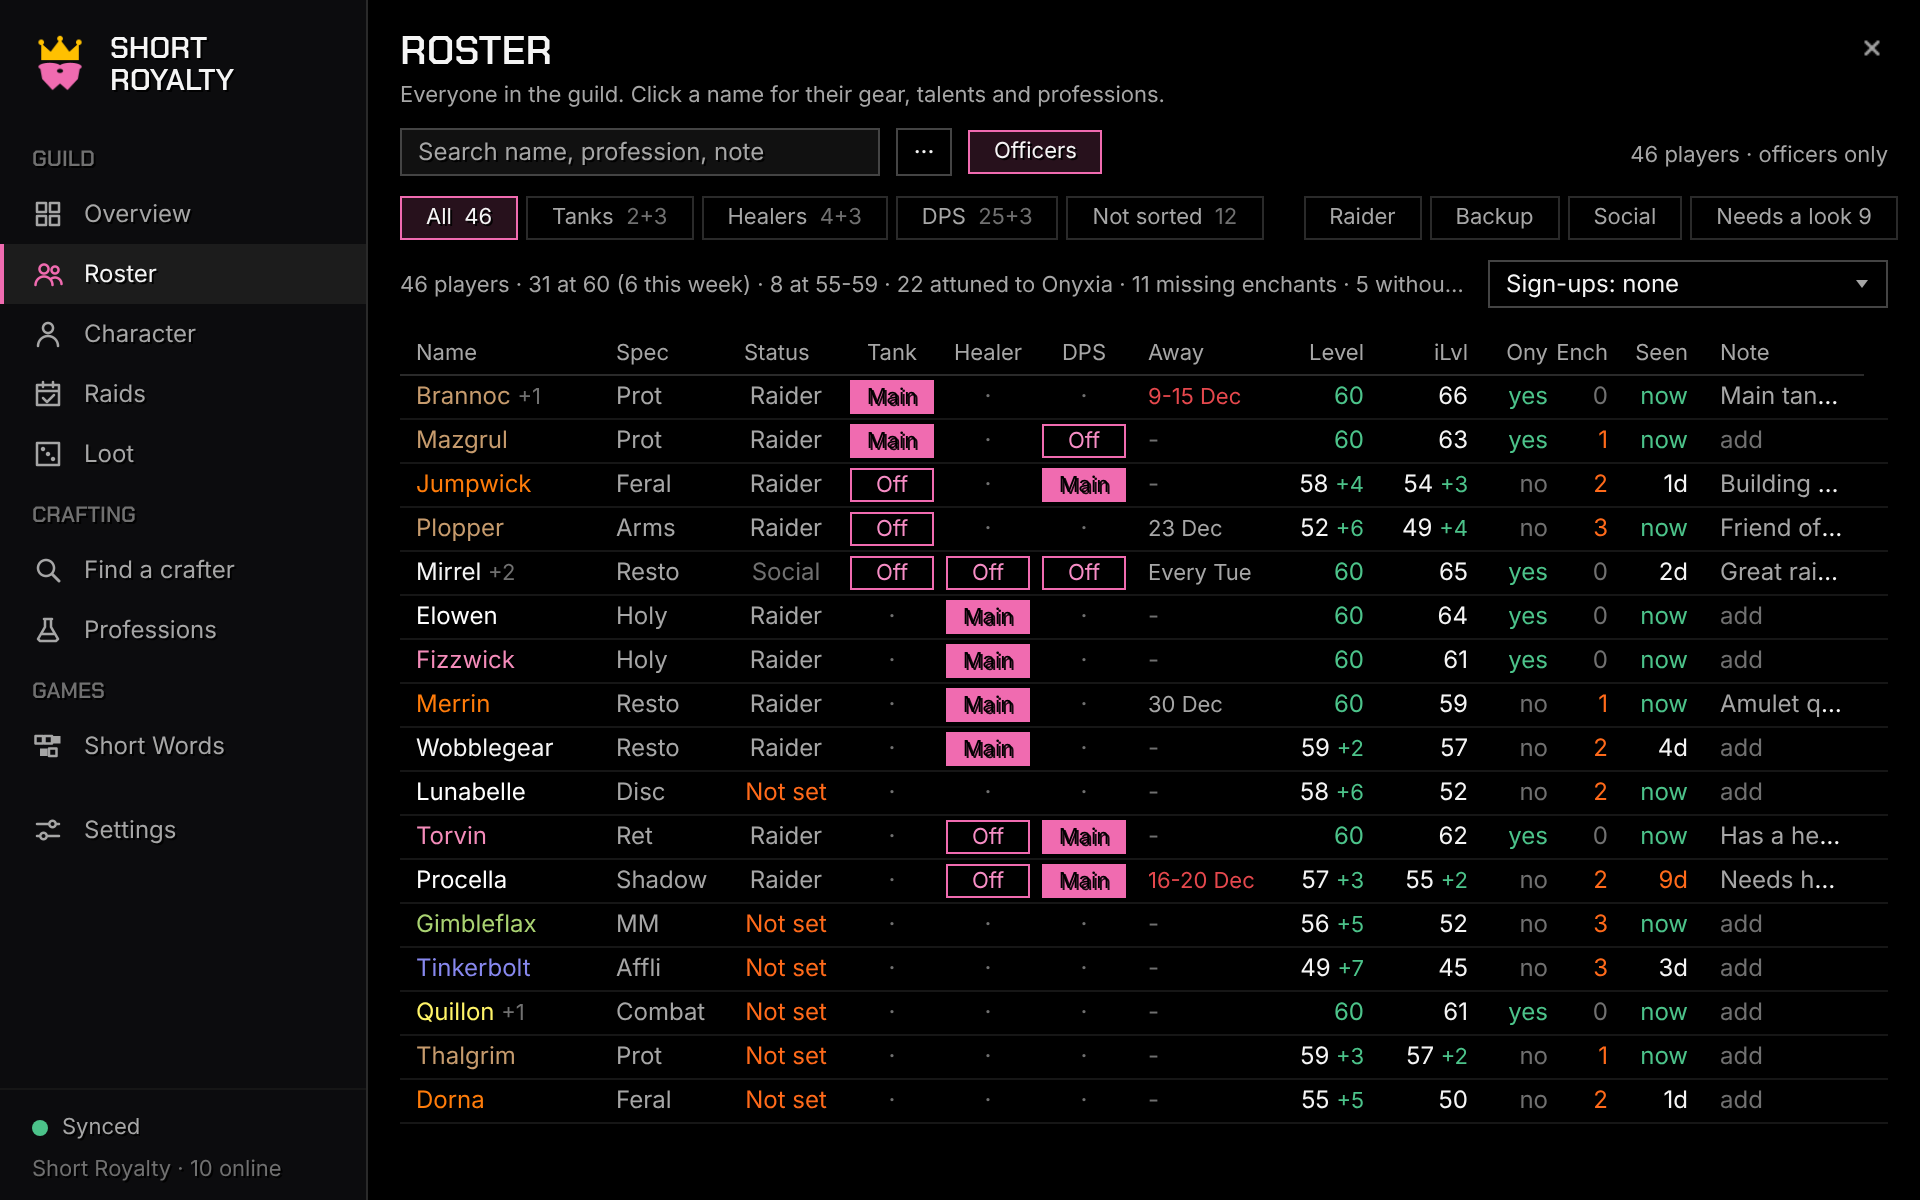
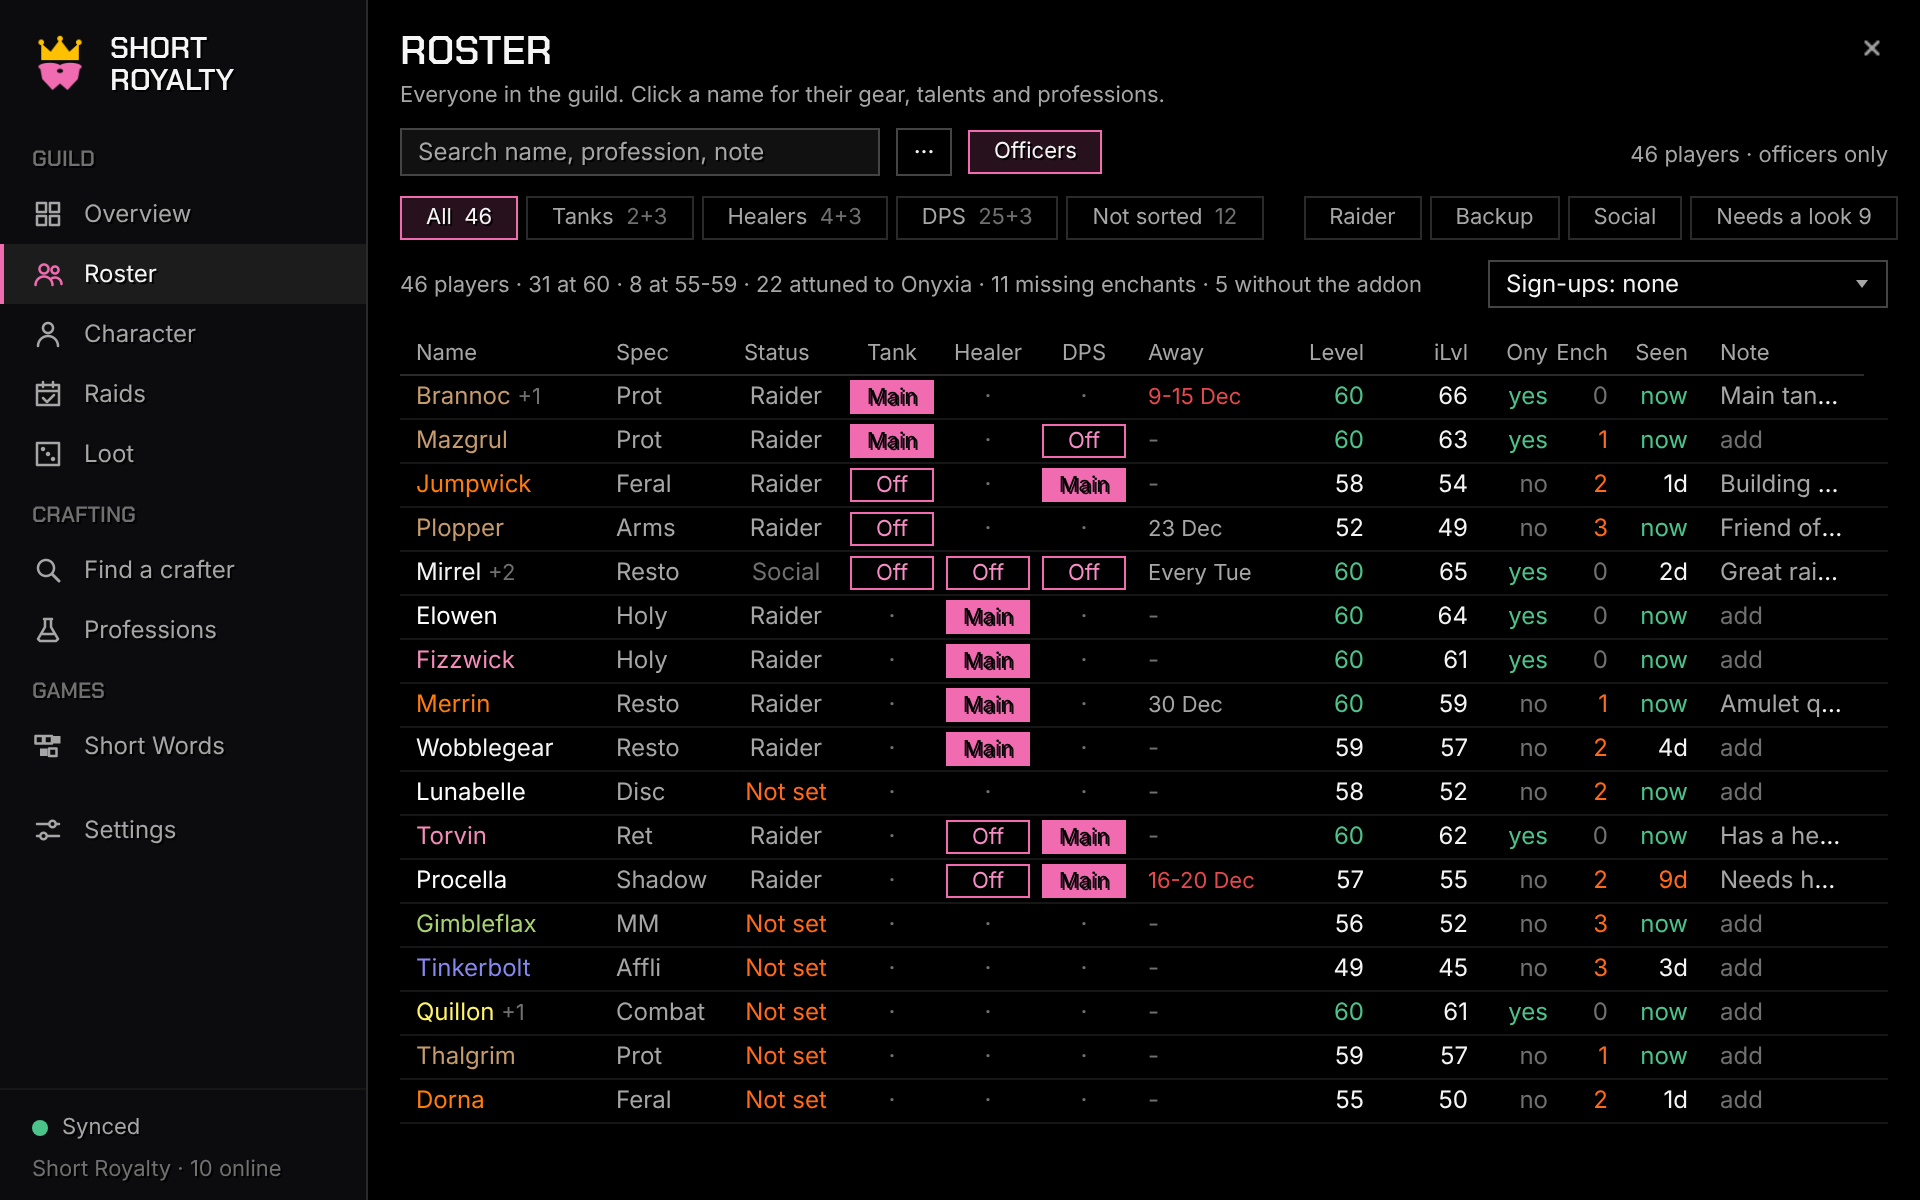
v0.14.2 (not released): remove the roster planner's level / item level gains
Claude-Session: https://claude.ai/code/session_01A7mubGdPYGXe41A4ZcDyrF

diff --git a/preview/index.html b/preview/index.html
@@ -558,7 +558,6 @@ function rosterPlanner() {
   const awayCell = (name) => AW[name] ? `<span class="small ${AW[name][1] ? "bad" : "dim"}">${AW[name][0]}</span>` : `<span class="faint">-</span>`;
   const NW = 744 - Object.values(W).reduce((a, b) => a + b, 0) - 12;
   const cell = (w, html, r, pad) => `<span class="cell ${r ? "r" : ""}" style="width:${w}px;${pad === 0 ? "padding:0;text-align:center" : pad === 1 ? "overflow:visible" : ""}">${html}</span>`;
-  const ILG = { Jumpwick: 3, Plopper: 4, Procella: 2, Thalgrim: 2 };
   const row = (r) => {
     const extra = r[13] ? ` <span class="faint small">+${r[13]}</span>` : "";
     const cells = [cell(W.n, cls(r[0]) + extra),
@@ -566,8 +565,8 @@ function rosterPlanner() {
       cell(W.st, r[2] ? `<span class="${r[2] === "Raider" ? "dim" : r[2] === "Social" ? "faint" : "acc"}">${r[2]}</span>` : `<span class="spark">Not set</span>`, 0, 0),
       cell(W.T, roleCell(r, "T"), 0, 0), cell(W.H, roleCell(r, "H"), 0, 0), cell(W.D, roleCell(r, "D"), 0, 0),
       cell(W.wk, awayCell(r[0].name)),
-      cell(W.l, r[4] === 60 ? `<span class="good">60</span>` : `${r[4]}${r[5] ? ` <span class="good small">+${r[5]}</span>` : ""}`, 1),
-      cell(W.i, `${r[6]}${ILG[r[0].name] ? ` <span class="good small">+${ILG[r[0].name]}</span>` : ""}`, 1),
+      cell(W.l, r[4] === 60 ? `<span class="good">60</span>` : `${r[4]}`, 1),
+      cell(W.i, `${r[6]}`, 1),
       cell(W.a, r[7] ? `<span class="good">yes</span>` : `<span class="faint">no</span>`, 1),
       cell(W.e, r[8] ? `<span class="spark">${r[8]}</span>` : `<span class="faint">0</span>`, 1),
       cell(W.seen, r[9] >= 7 ? `<span class="spark">${r[9]}d</span>` : r[9] ? `${r[9]}d` : `<span class="good">now</span>`, 1),
@@ -592,7 +591,7 @@ function rosterPlanner() {
   const chips = [["A", "All", 46], ["T", "Tanks", "2+3"], ["H", "Healers", "4+3"], ["D", "DPS", "25+3"], ["N", "Not sorted", 12]]
     .map(([k, t, n]) => `<span class="chip ${filter === k ? "on" : ""}" style="white-space:nowrap">${t}&nbsp;&nbsp;<span class="${filter === k ? "" : "faint"}">${n}</span></span>`).join("");
   const summary = filter === "A"
-    ? "46 players  ·  31 at 60 (6 this week)  ·  8 at 55-59  ·  22 attuned to Onyxia  ·  11 missing enchants  ·  5 without the addon"
+    ? "46 players  ·  31 at 60  ·  8 at 55-59  ·  22 attuned to Onyxia  ·  11 missing enchants  ·  5 without the addon"
     : "Click a status, role, away or note cell to change it. Click a name for their character.";
   const top = `<div class="search abs" style="left:0;top:0;width:240px"><input placeholder="Search name, profession, note" value=""></div>
     <div class="menu abs" style="left:248px;top:0;width:28px">${btn("···", "", 'style="padding:0;width:28px;justify-content:center"')}</div>

diff --git a/README.md b/README.md
@@ -98,8 +98,8 @@ Onyxia's Lair, Forever's first wave) to see who's attuned:
 
 <p align="center"><img src="docs/images/roster-planner-all.png" alt="Roster planner: one row per player with status, Tank/Healer/DPS, level, item level, attunement, enchants, data age and notes" width="100%"></p>
 
-- **Chips with counts**: All, **Tanks 2+3** (mains + backups), Healers, DPS, **Not sorted** (no status or roles yet: the people to get to know), plus Raider, Backup, **Social** (v0.14.0: neither, but sorted) and **Needs a look** (not 60, not attuned, missing enchants, no addon, or data a week old). "All" shows the whole guild in one line: players at 60 (and how many reached it this week), at 55-59, attuned to Onyxia, missing enchants, without the addon.
-- **Columns**: name (+2 = alts), spec, **Status** (Raider, Backup or Social; not the guild rank), **Tank / Healer / DPS** (Main filled, Off outlined), **Away** in words ("9-15 Dec", "Every Tue"; red when it clashes with a raid on the calendar; click it for a **mini calendar** like Raids → Calendar, with raid days marked and the player's own away days outlined, and click days to mark them away), level and item level with what they gained in the last 7 days, Onyxia attunement, missing enchants, **Seen** (how old their data is; orange after a week), and **Note**. Click a column title to sort.
+- **Chips with counts**: All, **Tanks 2+3** (mains + backups), Healers, DPS, **Not sorted** (no status or roles yet: the people to get to know), plus Raider, Backup, **Social** (v0.14.0: neither, but sorted) and **Needs a look** (not 60, not attuned, missing enchants, no addon, or data a week old). "All" shows the whole guild in one line: players at 60, at 55-59, attuned to Onyxia, missing enchants, without the addon.
+- **Columns**: name (+2 = alts), spec, **Status** (Raider, Backup or Social; not the guild rank), **Tank / Healer / DPS** (Main filled, Off outlined), **Away** in words ("9-15 Dec", "Every Tue"; red when it clashes with a raid on the calendar; click it for a **mini calendar** like Raids → Calendar, with raid days marked and the player's own away days outlined, and click days to mark them away), level, item level, Onyxia attunement, missing enchants, **Seen** (how old their data is; orange after a week), and **Note**. Click a column title to sort.
 - **Click a status or role cell** for a small menu (Main / Off / No): no accidental changes. **Click a note cell** to read every officer's note (who wrote it and when) and write or remove your own. **Click a name** for their full Character page.
 - A role chip shows its **mains**, then its **backups**, then **unsorted players whose spec fits** (an unsorted Prot warrior under Tanks); each group's header says how many are 60 and attuned, and who's **away this reset week**.
 - **Sign-ups** (menu, optional): pick a raid and the Seen column shows who signed up for it.

diff --git a/CLAUDE.md b/CLAUDE.md
@@ -54,6 +54,14 @@ bridged to the addon only by copy and paste.
   stand-in squares in the preview; Blizzard icons aren't in the repo).
   TESTING 84–85. Unverified in game: whether `Interface\Icons\<name>`
   paths load in Forever (else blank icons; the game's file IDs once known).
+- **v0.14.2 (not released yet; owner 22 Nov: "Remove the + feature
+  altogether, we don't need it"):** the planner's level/item level gains
+  are gone: `RP.Record/Gain`, `HISTORY_DAYS/GAIN_DAYS`, rows
+  `levelGain/ilvlGain`, Summary `gained` ("N this week"), the
+  `SK.DB.rosterProgress` default (cleared in `migrate`), preview `ILG`.
+  The owner had found the gains misleading (history only started when
+  each officer installed v0.13.0). Don't bring back item level tracking
+  unless asked (proposed: shared per-player history; owner declined).
 - **v0.14.0 (released 21 Nov on `main`, owner: "Push to main"; officers'
   second round, owner relayed the list): raids from the calendar, attendance at
   the start time.** Owner's answers (21 Nov): third status **Social**; late
@@ -123,8 +131,8 @@ bridged to the addon only by copy and paste.
     `AwayDays(officerDays, selfAway, now)` (next `AWAY_AHEAD` 28 days, officer
     days and the player's own `Absences`), `AwayText` ("9-15 Dec", "Every
     Tue"), rows `awayText/awayClash` (a raid that day, `ctx.raidDays`)/
-    `awayNow` (next 7 days → header "AWAY THIS WEEK: …"), progress `Record/Gain`
-    (`SK.DB.rosterProgress`, local, 35 days, gain vs ≥7 days ago).
+    `awayNow` (next 7 days → header "AWAY THIS WEEK: …"); progress `Record/Gain`
+    (`SK.DB.rosterProgress`) were removed in v0.14.2.
   - `UI/RosterTab.lua`: the Officers chip shows the planner
     (`BuildOfficers/RefreshOfficers`; `PLAN_COLUMNS` with `click` cells drawn
     as pill buttons via List `decorate/update`; `W.PopMenu` cell menus,

diff --git a/TESTING.md b/TESTING.md
@@ -286,8 +286,7 @@ addon read.
 72. [ ] **Needs a look**, **Raider**, **Backup** filters; column titles sort;
     **Sign-ups** menu shows who signed up for a raid.
 73. [ ] ··· → **Taller window**: the window grows; the list shows more rows.
-74. [ ] Tomorrow, level and item level show "+N" for people who levelled or
-    upgraded (each officer's game remembers what it saw each day).
+74. [x] (Removed in v0.14.2: the "+N" level and item level gains.)
 
 ## v0.14.0 Raids from the calendar, attendance at the start time
 

diff --git a/CHANGELOG.md b/CHANGELOG.md
@@ -2,8 +2,11 @@
 
 ## v0.14.2 (not released yet)
 
-- Roster planner: an item level that rose by less than half a point no
-  longer shows as "+0".
+- **Roster planner: the green "+" gains are gone** (owner: "we don't need
+  it"). Level and item level no longer show "+1" / "+2", the "All" line no
+  longer says how many reached 60 this week, and each officer's saved
+  history of levels and item levels is deleted. The faint "+3" next to a
+  name (alts) stays.
 
 ## v0.14.1 (22 Nov 2026): item names on the Loot page
 
